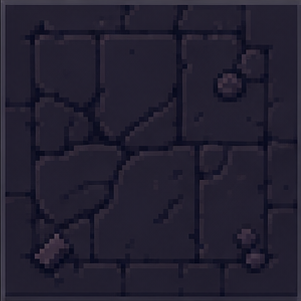
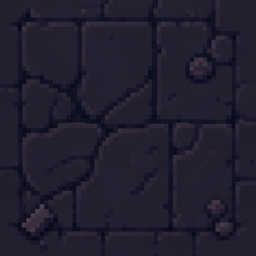
Fit custom floor tiles to rooms

diff --git a/src/main.js b/src/main.js
@@ -4,7 +4,8 @@ import './styles.css';
 const GAME_WIDTH = 384;
 const GAME_HEIGHT = 216;
 const TILE = 16;
-const FLOOR_TILE_SIZE = 32;
+const FLOOR_COLS = 8;
+const FLOOR_ROWS = 4;
 const ROOM_WIDTH = GAME_WIDTH;
 const ROOM_HEIGHT = GAME_HEIGHT;
 const ROOM_COLS = 3;
@@ -141,6 +142,7 @@ class RogueScene extends Phaser.Scene {
     this.load.image('tile-floor', assetUrl('assets/tiles/tile_1.png'));
     this.load.image('tile-cracked', assetUrl('assets/tiles/tile_cracked.png'));
     this.load.image('tile-magic', assetUrl('assets/tiles/tile_magic.png'));
+    this.load.image('tile-magic-2', assetUrl('assets/tiles/tile_magic_2.png'));
   }
 
   create() {
@@ -309,17 +311,17 @@ class RogueScene extends Phaser.Scene {
     const doorY = top + ROOM_HEIGHT / 2;
 
     this.floorBack.fillStyle(room.type === 'neutral' ? 0x15131f : 0x111018, 1).fillRect(left, top, ROOM_WIDTH, ROOM_HEIGHT);
-    for (let y = top + TILE; y <= bottom - TILE - FLOOR_TILE_SIZE; y += FLOOR_TILE_SIZE) {
-      for (let x = left + TILE; x <= right - TILE - FLOOR_TILE_SIZE; x += FLOOR_TILE_SIZE) {
-        const seed = x / FLOOR_TILE_SIZE + y / FLOOR_TILE_SIZE + room.x * 7 + room.y * 11;
-        const frame = seed % 17 === 0
-          ? TILE_FRAME.fleckFloor
-          : seed % 11 === 0
-            ? TILE_FRAME.crackedFloor
-            : room.type === 'reward' && seed % 9 === 0
-              ? TILE_FRAME.rewardFloor
-              : TILE_FRAME.floor;
-        this.addFloorTile(frame, x, y, room);
+    const floorLeft = left + TILE;
+    const floorTop = top + TILE;
+    const floorWidth = ROOM_WIDTH - TILE * 2;
+    const floorHeight = ROOM_HEIGHT - TILE * 2;
+    const floorTileWidth = floorWidth / FLOOR_COLS;
+    const floorTileHeight = floorHeight / FLOOR_ROWS;
+    for (let row = 0; row < FLOOR_ROWS; row++) {
+      for (let col = 0; col < FLOOR_COLS; col++) {
+        const x = floorLeft + col * floorTileWidth;
+        const y = floorTop + row * floorTileHeight;
+        this.addFloorTile(this.getFloorTileKey(col, row, room), x, y, floorTileWidth, floorTileHeight, room);
       }
     }
 
@@ -358,22 +360,21 @@ class RogueScene extends Phaser.Scene {
     return tile;
   }
 
-  addFloorTile(frame, x, y, room) {
-    const floorKey = this.getFloorTileKey(frame);
-    const tile = floorKey
-      ? this.add.image(x, y, floorKey).setOrigin(0).setDepth(0).setDisplaySize(FLOOR_TILE_SIZE, FLOOR_TILE_SIZE)
-      : this.add.image(x, y, 'dungeon-tiles', frame).setOrigin(0).setDepth(0).setDisplaySize(FLOOR_TILE_SIZE, FLOOR_TILE_SIZE);
+  addFloorTile(key, x, y, width, height, room) {
+    const tile = this.add.image(x, y, key).setOrigin(0).setDepth(0).setDisplaySize(width, height);
     if (room.type === 'neutral') tile.setTint(0xd8d0ff);
     if (room.type === 'reward') tile.setTint(0xffefd0);
     this.floorTiles.add(tile);
     return tile;
   }
 
-  getFloorTileKey(frame) {
-    if (frame === TILE_FRAME.floor) return 'tile-floor';
-    if (frame === TILE_FRAME.crackedFloor) return 'tile-cracked';
-    if (frame === TILE_FRAME.fleckFloor || frame === TILE_FRAME.rewardFloor) return 'tile-magic';
-    return null;
+  getFloorTileKey(col, row, room) {
+    const seed = col * 13 + row * 17 + room.x * 19 + room.y * 23;
+    if (room.type === 'reward' && seed % 4 === 0) return 'tile-magic-2';
+    if (seed % 11 === 0) return 'tile-magic-2';
+    if (seed % 7 === 0) return 'tile-magic';
+    if (seed % 3 === 0) return 'tile-cracked';
+    return 'tile-floor';
   }
 
   drawDoorTiles(x, y, width, height, direction, room) {